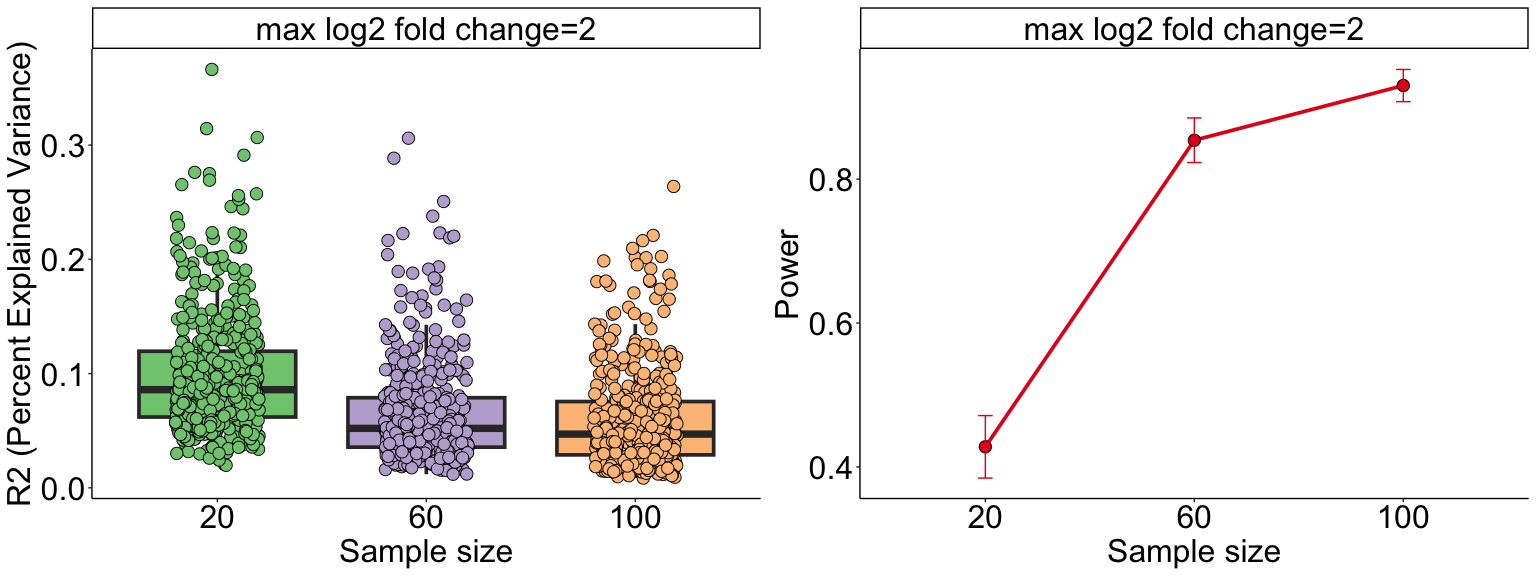
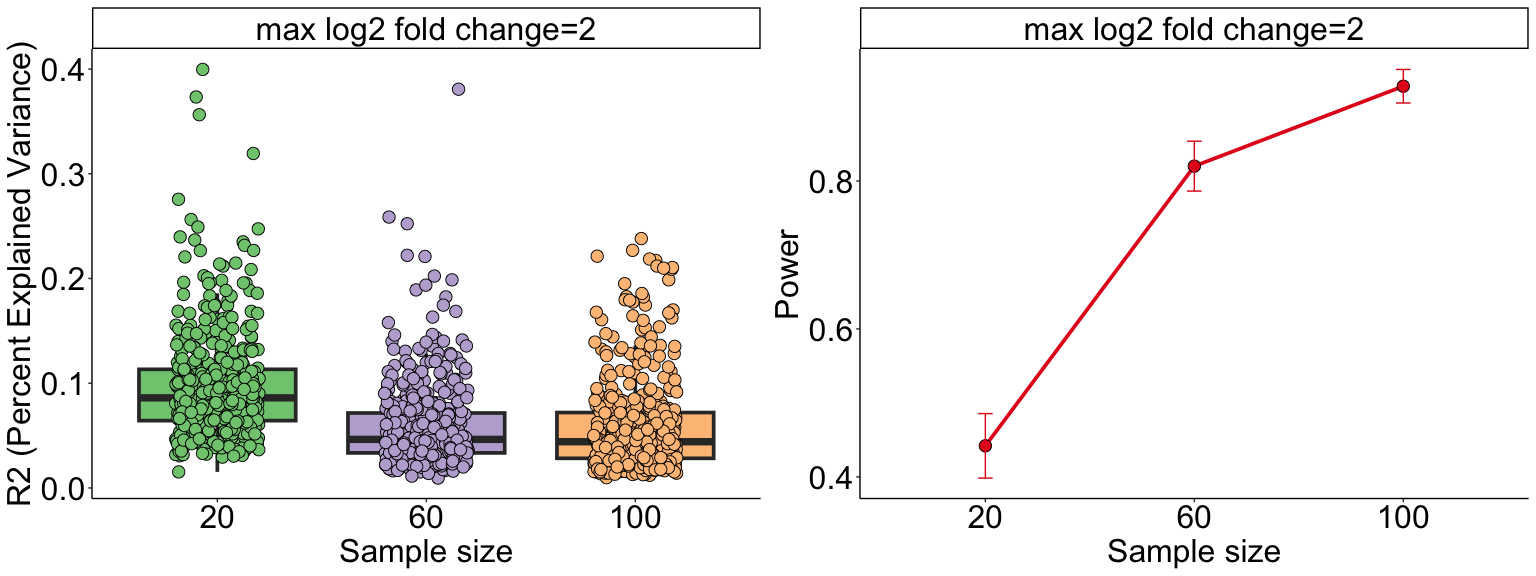
update rmd

diff --git a/README.md b/README.md
@@ -32,18 +32,6 @@ compositional variation in the population of interest.
 
 ``` r
 library(mPower)
-```
-
-    ## Warning: replacing previous import 'MASS::select' by 'dplyr::select' when
-    ## loading 'mPower'
-
-    ## Warning: replacing previous import 'dplyr::lag' by 'stats::lag' when loading
-    ## 'mPower'
-
-    ## Warning: replacing previous import 'dplyr::filter' by 'stats::filter' when
-    ## loading 'mPower'
-
-``` r
 data(feature.dat)
 ```
 
@@ -124,9 +112,9 @@ knitr::kable(res1$power, format = "markdown")
 
 | Sample size | max log2 fold change | power |
 |:------------|:---------------------|------:|
-| 20          | 2                    | 0.428 |
-| 60          | 2                    | 0.854 |
-| 100         | 2                    | 0.930 |
+| 20          | 2                    | 0.442 |
+| 60          | 2                    | 0.820 |
+| 100         | 2                    | 0.928 |
 
 #### 2.1.2 Output2: $R^2$ (variance explained) and community-level power curve
 
@@ -152,157 +140,6 @@ res2 <- mPower(feature.dat = feature.dat, model.paras = model.paras,
                confounder = 'yes', depth.mu = 100000, depth.sd = 4000, verbose = F)
 ```
 
-    ## Differential abundance analysis is testing:  20  samples and  145 out of 204  features!
-    ## Differential abundance analysis is testing:  20  samples and  174 out of 237  features!
-    ## Differential abundance analysis is testing:  20  samples and  169 out of 225  features!
-    ## Differential abundance analysis is testing:  20  samples and  168 out of 249  features!
-    ## Differential abundance analysis is testing:  20  samples and  192 out of 258  features!
-    ## Differential abundance analysis is testing:  20  samples and  159 out of 203  features!
-    ## Differential abundance analysis is testing:  20  samples and  177 out of 216  features!
-    ## Differential abundance analysis is testing:  20  samples and  166 out of 230  features!
-    ## Differential abundance analysis is testing:  20  samples and  185 out of 248  features!
-    ## Differential abundance analysis is testing:  20  samples and  183 out of 246  features!
-    ## Differential abundance analysis is testing:  20  samples and  171 out of 239  features!
-    ## Differential abundance analysis is testing:  20  samples and  159 out of 236  features!
-    ## Differential abundance analysis is testing:  20  samples and  170 out of 225  features!
-    ## Differential abundance analysis is testing:  20  samples and  171 out of 234  features!
-    ## Differential abundance analysis is testing:  20  samples and  159 out of 227  features!
-    ## Differential abundance analysis is testing:  20  samples and  171 out of 235  features!
-    ## Differential abundance analysis is testing:  20  samples and  162 out of 211  features!
-    ## Differential abundance analysis is testing:  20  samples and  170 out of 232  features!
-    ## Differential abundance analysis is testing:  20  samples and  185 out of 259  features!
-    ## Differential abundance analysis is testing:  20  samples and  173 out of 230  features!
-    ## Differential abundance analysis is testing:  20  samples and  168 out of 239  features!
-    ## Differential abundance analysis is testing:  20  samples and  174 out of 251  features!
-    ## Differential abundance analysis is testing:  20  samples and  195 out of 247  features!
-    ## Differential abundance analysis is testing:  20  samples and  172 out of 233  features!
-    ## Differential abundance analysis is testing:  20  samples and  156 out of 225  features!
-    ## Differential abundance analysis is testing:  20  samples and  152 out of 219  features!
-    ## Differential abundance analysis is testing:  20  samples and  178 out of 244  features!
-    ## Differential abundance analysis is testing:  20  samples and  168 out of 230  features!
-    ## Differential abundance analysis is testing:  20  samples and  166 out of 231  features!
-    ## Differential abundance analysis is testing:  20  samples and  169 out of 237  features!
-    ## Differential abundance analysis is testing:  20  samples and  205 out of 264  features!
-    ## Differential abundance analysis is testing:  20  samples and  164 out of 227  features!
-    ## Differential abundance analysis is testing:  20  samples and  195 out of 260  features!
-    ## Differential abundance analysis is testing:  20  samples and  164 out of 211  features!
-    ## Differential abundance analysis is testing:  20  samples and  192 out of 260  features!
-    ## Differential abundance analysis is testing:  20  samples and  184 out of 248  features!
-    ## Differential abundance analysis is testing:  20  samples and  172 out of 234  features!
-    ## Differential abundance analysis is testing:  20  samples and  172 out of 245  features!
-    ## Differential abundance analysis is testing:  20  samples and  171 out of 244  features!
-    ## Differential abundance analysis is testing:  20  samples and  189 out of 255  features!
-    ## Differential abundance analysis is testing:  20  samples and  197 out of 266  features!
-    ## Differential abundance analysis is testing:  20  samples and  187 out of 263  features!
-    ## Differential abundance analysis is testing:  20  samples and  181 out of 267  features!
-    ## Differential abundance analysis is testing:  20  samples and  196 out of 242  features!
-    ## Differential abundance analysis is testing:  20  samples and  191 out of 265  features!
-    ## Differential abundance analysis is testing:  20  samples and  174 out of 250  features!
-    ## Differential abundance analysis is testing:  20  samples and  175 out of 238  features!
-    ## Differential abundance analysis is testing:  20  samples and  173 out of 240  features!
-    ## Differential abundance analysis is testing:  20  samples and  177 out of 224  features!
-    ## Differential abundance analysis is testing:  20  samples and  158 out of 233  features!
-    ## Differential abundance analysis is testing:  60  samples and  236 out of 355  features!
-    ## Differential abundance analysis is testing:  60  samples and  259 out of 357  features!
-    ## Differential abundance analysis is testing:  60  samples and  256 out of 356  features!
-    ## Differential abundance analysis is testing:  60  samples and  248 out of 357  features!
-    ## Differential abundance analysis is testing:  60  samples and  224 out of 341  features!
-    ## Differential abundance analysis is testing:  60  samples and  253 out of 360  features!
-    ## Differential abundance analysis is testing:  60  samples and  220 out of 346  features!
-    ## Differential abundance analysis is testing:  60  samples and  249 out of 370  features!
-    ## Differential abundance analysis is testing:  60  samples and  237 out of 356  features!
-    ## Differential abundance analysis is testing:  60  samples and  236 out of 346  features!
-    ## Differential abundance analysis is testing:  60  samples and  230 out of 353  features!
-    ## Differential abundance analysis is testing:  60  samples and  257 out of 359  features!
-    ## Differential abundance analysis is testing:  60  samples and  238 out of 349  features!
-    ## Differential abundance analysis is testing:  60  samples and  229 out of 345  features!
-    ## Differential abundance analysis is testing:  60  samples and  243 out of 353  features!
-    ## Differential abundance analysis is testing:  60  samples and  245 out of 357  features!
-    ## Differential abundance analysis is testing:  60  samples and  264 out of 363  features!
-    ## Differential abundance analysis is testing:  60  samples and  223 out of 347  features!
-    ## Differential abundance analysis is testing:  60  samples and  249 out of 364  features!
-    ## Differential abundance analysis is testing:  60  samples and  240 out of 353  features!
-    ## Differential abundance analysis is testing:  60  samples and  246 out of 362  features!
-    ## Differential abundance analysis is testing:  60  samples and  247 out of 354  features!
-    ## Differential abundance analysis is testing:  60  samples and  251 out of 364  features!
-    ## Differential abundance analysis is testing:  60  samples and  256 out of 370  features!
-    ## Differential abundance analysis is testing:  60  samples and  239 out of 357  features!
-    ## Differential abundance analysis is testing:  60  samples and  245 out of 361  features!
-    ## Differential abundance analysis is testing:  60  samples and  250 out of 354  features!
-    ## Differential abundance analysis is testing:  60  samples and  249 out of 371  features!
-    ## Differential abundance analysis is testing:  60  samples and  239 out of 357  features!
-    ## Differential abundance analysis is testing:  60  samples and  257 out of 361  features!
-    ## Differential abundance analysis is testing:  60  samples and  228 out of 349  features!
-    ## Differential abundance analysis is testing:  60  samples and  225 out of 348  features!
-    ## Differential abundance analysis is testing:  60  samples and  248 out of 359  features!
-    ## Differential abundance analysis is testing:  60  samples and  259 out of 357  features!
-    ## Differential abundance analysis is testing:  60  samples and  235 out of 358  features!
-    ## Differential abundance analysis is testing:  60  samples and  248 out of 360  features!
-    ## Differential abundance analysis is testing:  60  samples and  238 out of 344  features!
-    ## Differential abundance analysis is testing:  60  samples and  263 out of 364  features!
-    ## Differential abundance analysis is testing:  60  samples and  232 out of 341  features!
-    ## Differential abundance analysis is testing:  60  samples and  244 out of 367  features!
-    ## Differential abundance analysis is testing:  60  samples and  244 out of 350  features!
-    ## Differential abundance analysis is testing:  60  samples and  237 out of 359  features!
-    ## Differential abundance analysis is testing:  60  samples and  244 out of 361  features!
-    ## Differential abundance analysis is testing:  60  samples and  237 out of 364  features!
-    ## Differential abundance analysis is testing:  60  samples and  250 out of 355  features!
-    ## Differential abundance analysis is testing:  60  samples and  248 out of 355  features!
-    ## Differential abundance analysis is testing:  60  samples and  232 out of 339  features!
-    ## Differential abundance analysis is testing:  60  samples and  242 out of 365  features!
-    ## Differential abundance analysis is testing:  60  samples and  247 out of 360  features!
-    ## Differential abundance analysis is testing:  60  samples and  245 out of 362  features!
-    ## Differential abundance analysis is testing:  100  samples and  253 out of 375  features!
-    ## Differential abundance analysis is testing:  100  samples and  264 out of 379  features!
-    ## Differential abundance analysis is testing:  100  samples and  274 out of 382  features!
-    ## Differential abundance analysis is testing:  100  samples and  261 out of 376  features!
-    ## Differential abundance analysis is testing:  100  samples and  261 out of 372  features!
-    ## Differential abundance analysis is testing:  100  samples and  266 out of 380  features!
-    ## Differential abundance analysis is testing:  100  samples and  257 out of 376  features!
-    ## Differential abundance analysis is testing:  100  samples and  287 out of 380  features!
-    ## Differential abundance analysis is testing:  100  samples and  268 out of 379  features!
-    ## Differential abundance analysis is testing:  100  samples and  260 out of 371  features!
-    ## Differential abundance analysis is testing:  100  samples and  258 out of 381  features!
-    ## Differential abundance analysis is testing:  100  samples and  270 out of 381  features!
-    ## Differential abundance analysis is testing:  100  samples and  258 out of 376  features!
-    ## Differential abundance analysis is testing:  100  samples and  269 out of 378  features!
-    ## Differential abundance analysis is testing:  100  samples and  266 out of 373  features!
-    ## Differential abundance analysis is testing:  100  samples and  259 out of 377  features!
-    ## Differential abundance analysis is testing:  100  samples and  276 out of 381  features!
-    ## Differential abundance analysis is testing:  100  samples and  268 out of 377  features!
-    ## Differential abundance analysis is testing:  100  samples and  253 out of 376  features!
-    ## Differential abundance analysis is testing:  100  samples and  283 out of 380  features!
-    ## Differential abundance analysis is testing:  100  samples and  272 out of 379  features!
-    ## Differential abundance analysis is testing:  100  samples and  258 out of 370  features!
-    ## Differential abundance analysis is testing:  100  samples and  269 out of 378  features!
-    ## Differential abundance analysis is testing:  100  samples and  269 out of 381  features!
-    ## Differential abundance analysis is testing:  100  samples and  255 out of 377  features!
-    ## Differential abundance analysis is testing:  100  samples and  255 out of 378  features!
-    ## Differential abundance analysis is testing:  100  samples and  279 out of 378  features!
-    ## Differential abundance analysis is testing:  100  samples and  258 out of 378  features!
-    ## Differential abundance analysis is testing:  100  samples and  266 out of 377  features!
-    ## Differential abundance analysis is testing:  100  samples and  268 out of 374  features!
-    ## Differential abundance analysis is testing:  100  samples and  259 out of 376  features!
-    ## Differential abundance analysis is testing:  100  samples and  275 out of 382  features!
-    ## Differential abundance analysis is testing:  100  samples and  281 out of 380  features!
-    ## Differential abundance analysis is testing:  100  samples and  270 out of 377  features!
-    ## Differential abundance analysis is testing:  100  samples and  254 out of 376  features!
-    ## Differential abundance analysis is testing:  100  samples and  257 out of 377  features!
-    ## Differential abundance analysis is testing:  100  samples and  254 out of 379  features!
-    ## Differential abundance analysis is testing:  100  samples and  261 out of 373  features!
-    ## Differential abundance analysis is testing:  100  samples and  266 out of 378  features!
-    ## Differential abundance analysis is testing:  100  samples and  263 out of 378  features!
-    ## Differential abundance analysis is testing:  100  samples and  266 out of 380  features!
-    ## Differential abundance analysis is testing:  100  samples and  258 out of 375  features!
-    ## Differential abundance analysis is testing:  100  samples and  255 out of 377  features!
-    ## Differential abundance analysis is testing:  100  samples and  262 out of 382  features!
-    ## Differential abundance analysis is testing:  100  samples and  243 out of 374  features!
-    ## Differential abundance analysis is testing:  100  samples and  250 out of 374  features!
-    ## Differential abundance analysis is testing:  100  samples and  268 out of 378  features!
-    ## Differential abundance analysis is testing:  100  samples and  268 out of 376  features!
-    ## Differential abundance analysis is testing:  100  samples and  262 out of 378  features!
-    ## Differential abundance analysis is testing:  100  samples and  263 out of 379  features!
-
 #### 2.2.1 Output1: Taxa-level power table - aTPR
 
 “aTPR”(average true positive rate): represents the average proportion of
@@ -316,9 +153,9 @@ knitr::kable(res2$aTPR, format = "markdown")
 
 | Sample size | max log2 fold change |      aTPR |
 |:------------|:---------------------|----------:|
-| 20          | 2                    | 0.0113019 |
-| 60          | 2                    | 0.0790285 |
-| 100         | 2                    | 0.1400519 |
+| 20          | 2                    | 0.0251155 |
+| 60          | 2                    | 0.0704865 |
+| 100         | 2                    | 0.1256735 |
 
 #### 2.2.2 Output1: Taxa-level power table - pOCR
 
@@ -332,9 +169,9 @@ knitr::kable(res2$pOCR, format = "markdown")
 
 | Sample size | max log2 fold change | pOCR |
 |:------------|:---------------------|-----:|
-| 20          | 2                    | 0.16 |
-| 60          | 2                    | 0.88 |
-| 100         | 2                    | 1.00 |
+| 20          | 2                    | 0.30 |
+| 60          | 2                    | 0.74 |
+| 100         | 2                    | 0.98 |
 
 #### 2.2.3 Output3: aTPR power curve(left) and pOCR power curve(right)
 
